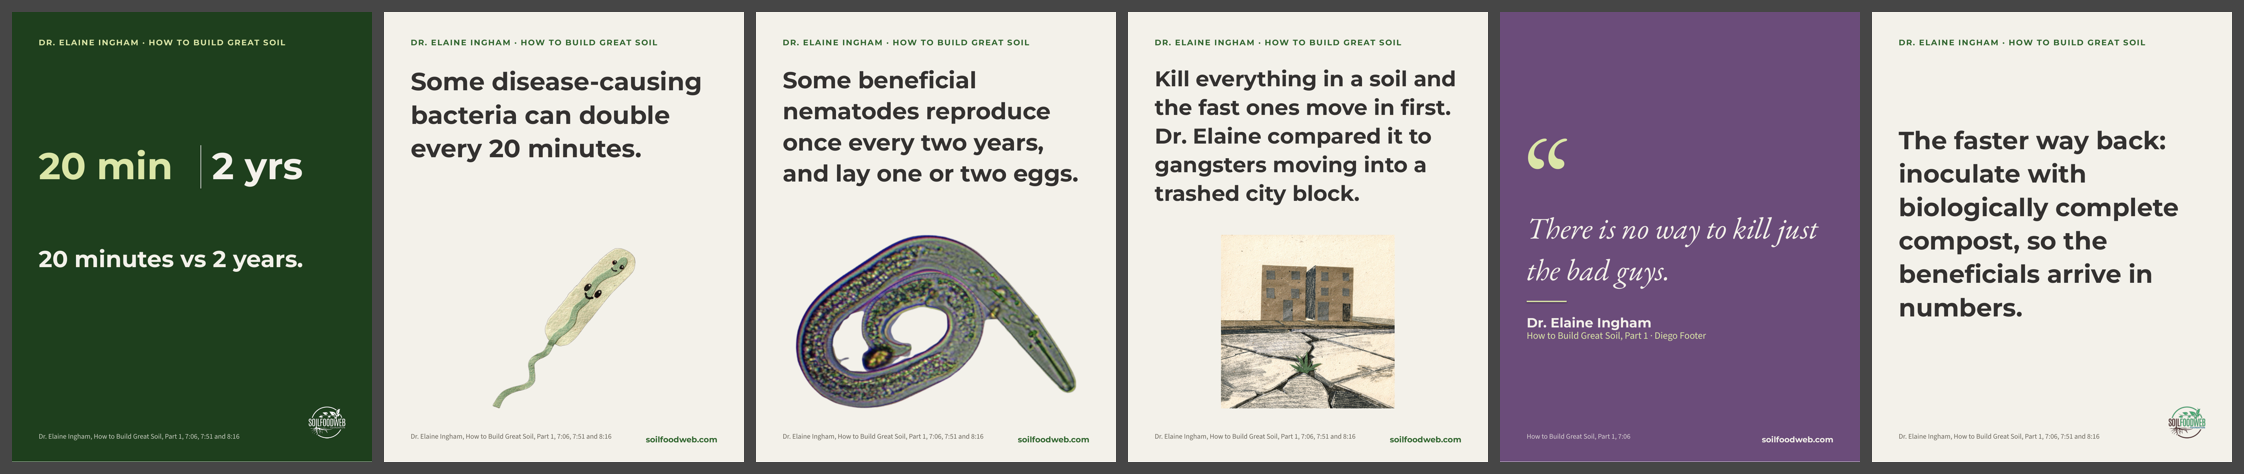
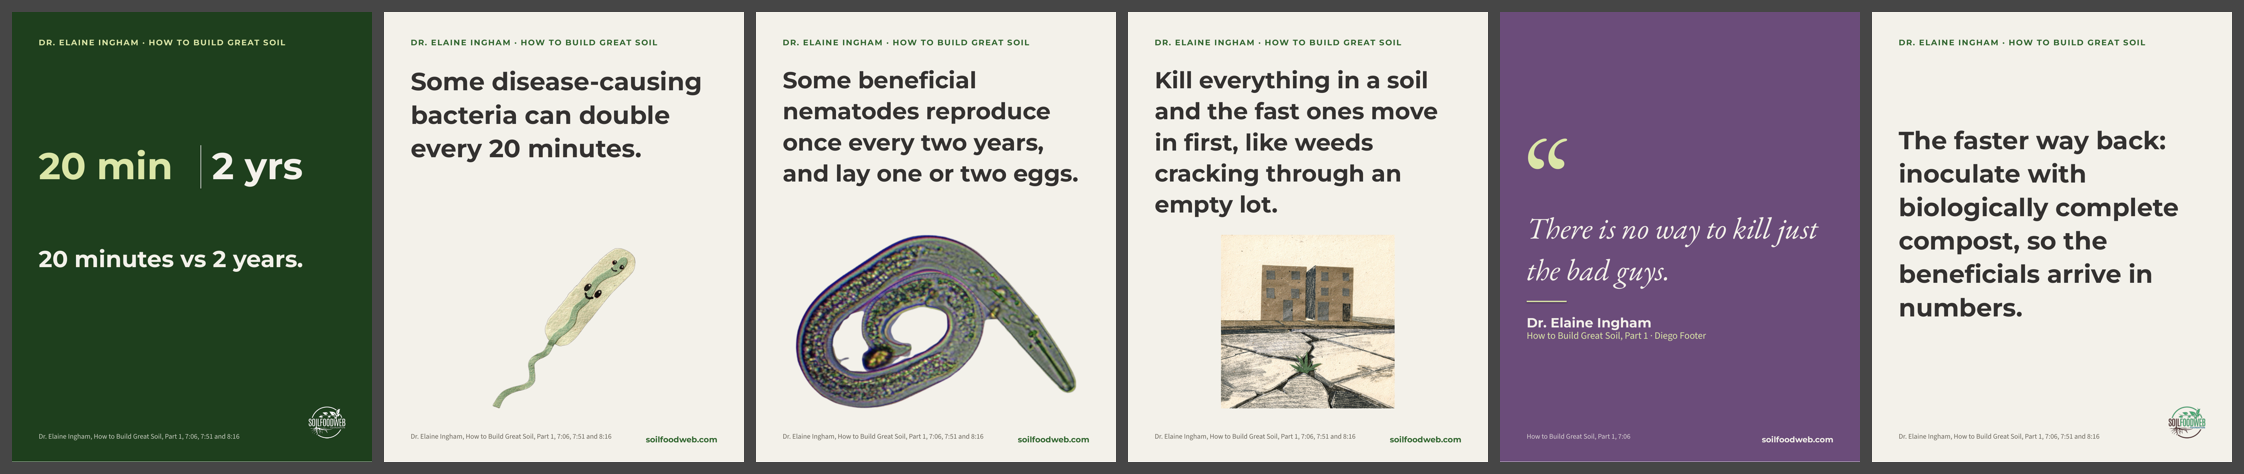
20 minutes vs 2 years, slide 4: drop the gangster comparison, weeds in an empty lot instead
Claude-Session: https://claude.ai/code/session_014HGzAbxBh54nuyJHG7tse8

Changed region(s): [[0.4991, 0.1477, 0.6551, 0.4726]]

diff --git a/templates/posts/november/build_elaine_series.py b/templates/posts/november/build_elaine_series.py
@@ -299,8 +299,9 @@ def minutes_years():
        "Library cutout: cute-bacterium-1.", S, img_h=480)
     t3(p, "Some beneficial nematodes reproduce once every two years, and lay one or two eggs.", MIC + "cutout-6.png",
        "Microscopy: assets/microscopy/cutout-6.png (nematode). [VERIFY with Wes] nematode life cycle.", S, img_h=520)
-    t3(p, "Kill everything in a soil and the fast ones move in first. Dr. Elaine compared it to gangsters moving into a "
-          "trashed city block.", "assets/collage/originals/city-block-weed-1.png", "Collage: city-block-weed.", S, img_h=520)
+    t3(p, "Kill everything in a soil and the fast ones move in first, like weeds cracking through an empty lot.",
+       "assets/collage/originals/city-block-weed-1.png", "Collage: city-block-weed. Wording changed from the brief: the "
+       "gangster comparison was dropped as not appropriate (Linnea, 3 Oct 2026). Drop it from the caption too.", S, img_h=520)
     t1b(p, "There is no way to kill just the bad guys.", "Quote at 7:06.", "How to Build Great Soil, Part 1, 7:06", last=False)
     t3(p, "The faster way back: inoculate with biologically complete compost, so the beneficials arrive in numbers.", None,
        "Type only.", S, last=True)
